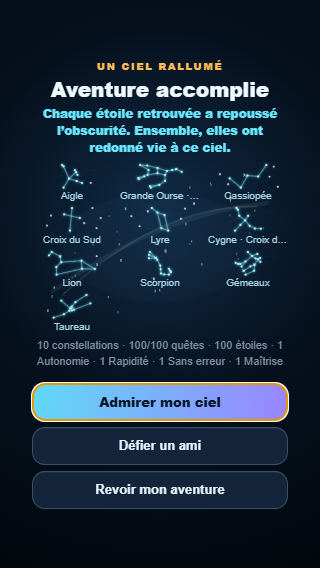
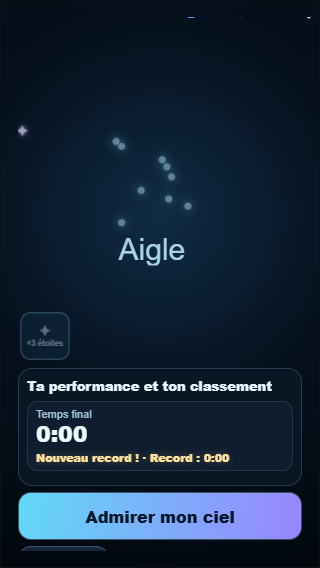
fix(#705): fin d'aventure sans CTA redondant ni défilement mobile

diff --git a/src/ui/game-screen.js b/src/ui/game-screen.js
@@ -4054,7 +4054,8 @@ function showCelestialVictory(){
  const shown=celestialCelebration.show({kind:event.kind,title:mastery?(campaign?'Le ciel pleinement maîtrisé':'Une aventure pleinement maîtrisée'):campaign?'Le ciel est réuni':adventure?'Aventure accomplie':(entry?.label||q.constellationId)+' brille à nouveau !',
   copy:campaign?(pack?.narrative||'Toutes les lumières du voyage se répondent désormais.'):adventure?(pack?.narrative||'Chaque étoile retrouvée a repoussé l’obscurité. Ensemble, elles ont redonné vie à ce ciel.'):'Une nouvelle lumière a retrouvé sa place dans le ciel.',
   summary:(mastery?'Toutes les quêtes et tous les badges disponibles sont accomplis. ':campaign?'Toutes les quêtes sont terminées. Les badges restent à explorer. ':'')+count+`${summary.completed}/${summary.total} quêtes · ${summary.stars} étoiles · `+badgeText,art,primary,
-  secondary:next?{label:'✦ Mon ciel',run:leave(sky)}:null,review:adventure?{label:'Revoir mon aventure',run:leave(()=>openJourneyMap(false,{constellationId:q.constellationId,detail:false}))}:null,
+  // #705: no « Revoir mon aventure »: it duplicated the sky navigation below the fold.
+  secondary:next?{label:'✦ Mon ciel',run:leave(sky)}:null,review:null,
   share:challenge&&!challenge.hidden?{label:'➤ Défier',disabled:challenge.disabled,remarkable:challenge.classList.contains('remarkable'),run:()=>challenge.click()}:null});
  if(shown){adventurePending=null;endgamePending=false;if(event.kind==='campaign'){try{localStorage.setItem(endgameSeenKey(),'1')}catch(_){}trackLumenEvent('campaign_completed',null,{content_quests:summary.total,constellations:new Set(quests.map(x=>x.constellationId)).size,stars:summary.stars})}}
  return shown;

diff --git a/src/ui/styles.css b/src/ui/styles.css
@@ -1158,7 +1158,9 @@ button{background:#121a29;color:#dcecff;border:1px solid #2b3b55;border-radius:1
    available; narrative copy follows the storyboard without layout changes. */
 .sky-reveal[data-celestial]{z-index:2100}
 .sky-reveal[data-celestial] [hidden]{display:none!important}
-.sky-reveal[data-celestial] .sky-reveal-card{display:flex;flex-direction:column;gap:8px;width:min(94vw,840px);max-height:calc(100dvh - 24px);padding:20px;overflow:auto}
+.sky-reveal[data-celestial] .sky-reveal-card{display:flex;flex-direction:column;gap:8px;width:min(94vw,840px);max-height:calc(100dvh - 24px - env(safe-area-inset-top,0px) - env(safe-area-inset-bottom,0px));padding:20px;overflow:auto}
+/* #705: phones (360x640 and up) show the whole celebration and its CTA without scrolling. */
+@media(max-height:700px){#skyReveal[data-celestial] .sky-reveal-card{gap:5px}#skyReveal[data-celestial] .sky-reveal-title{font-size:20px}#skyReveal[data-celestial] .celestial-summary{font-size:11px;line-height:1.35}#skyReveal[data-celestial] .celestial-panorama{max-height:34dvh;min-height:90px}}
 .sky-reveal[data-celestial] .sky-reveal-title{font-size:clamp(20px,3.3vw,32px);line-height:1.15;margin:0}
 .sky-reveal[data-celestial] .sky-reveal-name{font-size:clamp(12px,2vw,16px);line-height:1.4;margin:0 auto;max-width:580px}
 .sky-reveal[data-celestial] #skyRevealTitle,.sky-reveal[data-celestial] #skyRevealName,.sky-reveal[data-celestial] .celestial-summary{animation:celestial-conclusion 4s both}

diff --git a/src/ui/celestial-celebration.js b/src/ui/celestial-celebration.js
@@ -20,6 +20,8 @@ export function createCelestialCelebration(document){
   document.getElementById('skyRevealFeedback').hidden=true;
   const bind=(id,action)=>{const b=document.getElementById(id);b.hidden=!action;b.disabled=!!action?.disabled;b.classList.toggle('remarkable',!!action?.remarkable);if(action){b.textContent=action.label;b.onclick=action.run}};
   bind('skyRevealNext',primary);bind('skyRevealSky',secondary);bind('skyRevealRetry',review);bind('skyRevealShare',share);
+  // #705: explain a challenge only where one is offered; restore() puts it back.
+  if(!share)document.getElementById('skyRevealChallengeReason').hidden=true;
   const key=e=>{if(e.key==='Tab'){const buttons=[...card.querySelectorAll('button')].filter(b=>!b.hidden&&!b.disabled&&b.getClientRects().length);const i=buttons.indexOf(document.activeElement);e.preventDefault();buttons[(i+(e.shiftKey?-1:1)+buttons.length)%buttons.length]?.focus()}};
   host.addEventListener('keydown',key);cleanup=()=>{host.removeEventListener('keydown',key);restore()};
   return true;

diff --git a/docs/UX_AND_VISUAL_DIRECTION.md b/docs/UX_AND_VISUAL_DIRECTION.md
@@ -626,6 +626,8 @@ tap de la surface pour accélérer et retour à Mon ciel. Aucun tutoriel ni règ
 
 Le panorama existant annonce « Une aventure pleinement maîtrisée » avec une lumière dorée discrète ; Mon ciel conserve un fond doré rempli, ✦ et le libellé visible et accessible « Maîtrisée » sur l’aventure. Le fond reste doré quand une autre aventure est sélectionnée ; un bord cyan indique la sélection, indépendamment de la maîtrise. Les aventures simplement terminées conservent leur aspect habituel. Le marqueur reste statique après rechargement. Une seule scène apparaît lorsque les seuils coïncident. Clavier, tap de la surface, mouvement réduit et retour à Mon ciel restent disponibles.
 
+Fin d’aventure (#705) : les célébrations de constellation, d’aventure et de ciel n’offrent plus « Revoir mon aventure », qui doublait la navigation vers Mon ciel. Un seul retour au ciel reste proposé (« Admirer mon ciel », ou « Mon ciel » à côté de « Découvrir l’aventure suivante »). L’explication d’indisponibilité d’un défi n’apparaît que si un défi est proposé. Sur téléphone (360×640, 390×844), tout l’écran tient sans défilement vertical : sous 700 px de hauteur, les espacements, le titre, le récapitulatif et le panorama sont resserrés. La hauteur de la carte tient compte des zones de sécurité iOS/Android.
+
 Impact onboarding #627/#629/#632 : les règles, tarifs et seuils pédagogiques restent inchangés. Le glissement devient continu ; les aides hors ligne respectent les preuves et réservations existantes. Aucun nouvel enseignement nécessaire.
 
 ## Victoire et podium compact

diff --git a/docs/TESTING.md b/docs/TESTING.md
@@ -2022,7 +2022,7 @@ des preuves complémentaires.
 
 La quality gate ajoute `offline-hint-purchase-browser-tests.mjs`, `offline-hint-network-browser-tests.mjs`, `drag-cascade-browser-tests.mjs`, `adventure-mastery-browser-tests.mjs`. Profils et RPC sont synthétiques ; Chromium exerce les vrais boutons, le stockage durable, la reconnexion, les gestes tactiles et les scènes mobiles/bureau. Rapports CI : `ci-offline-hint.json`, `ci-offline-hint-network.json`, `ci-drag-cascade.json`, `ci-adventure-mastery.json`.
 
-`adventure-mastery-browser-tests.mjs` vérifie aussi le libellé « Maîtrisée » visible dans la barre d’aventures et le fond rempli distinct, conservé lorsque la sélection change. La navigation et le rechargement conservent les acquis sans récompense ajoutée.
+`adventure-mastery-browser-tests.mjs` couvre aussi 360×640 et 390×844 (#705) : aucun CTA « Revoir mon aventure », aucun défilement vertical de la carte, et le dernier bouton reste dans la hauteur utile. Il vérifie aussi le libellé « Maîtrisée » visible dans la barre d’aventures et le fond rempli distinct, conservé lorsque la sélection change. La navigation et le rechargement conservent les acquis sans récompense ajoutée.
 
 Recette physique restante : indice avec 80 Éclats en mode avion puis reconnexion ; glissement pendant scintillement avec/sans marquage automatique ; dernier badge d’aventure puis réouverture de Mon ciel, avec fond doré et libellé de maîtrise lisibles. Ces tests simulés ne valent pas recette sur téléphone. Les issues restent ouvertes « To be tested » jusqu’à acceptation.
 
